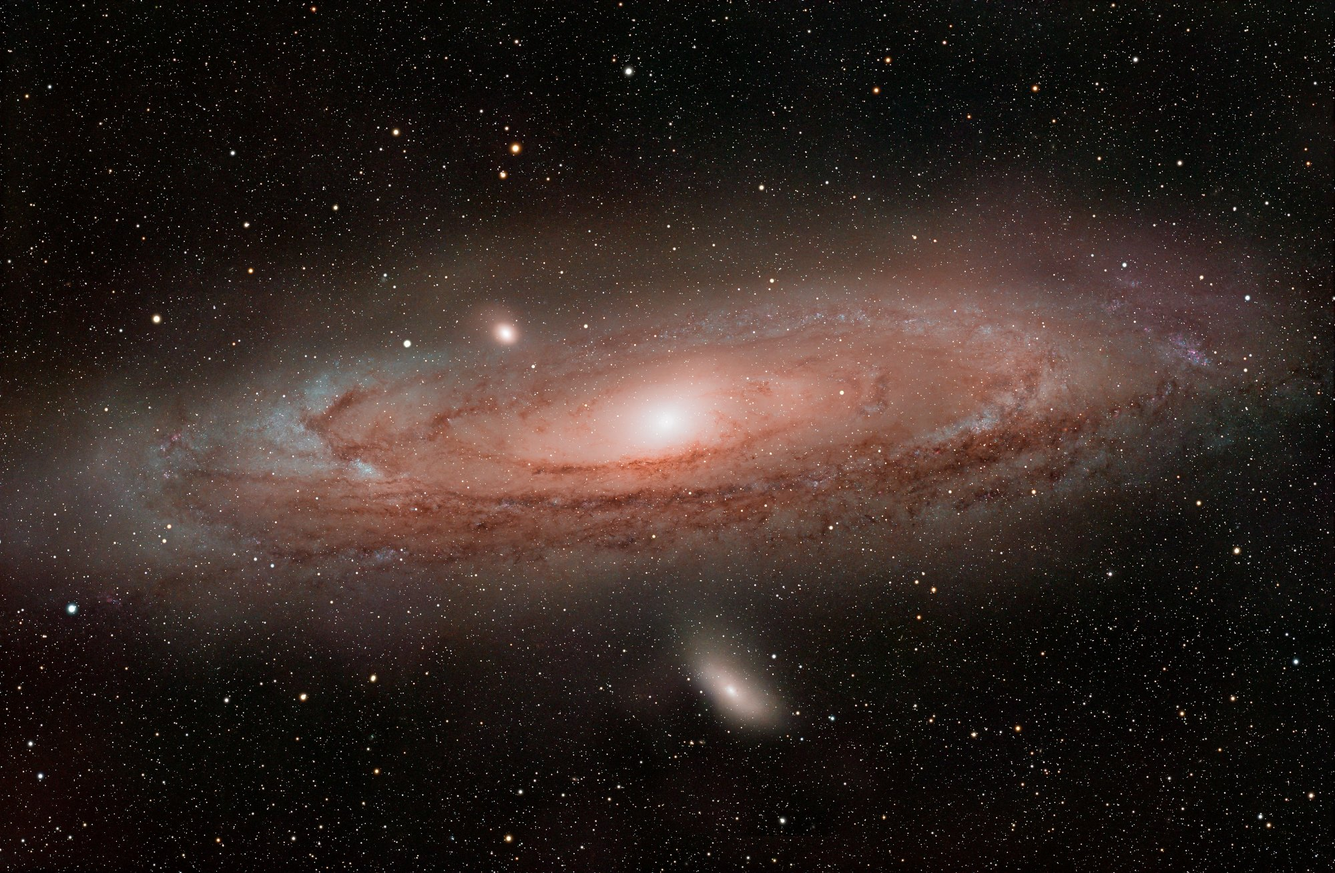
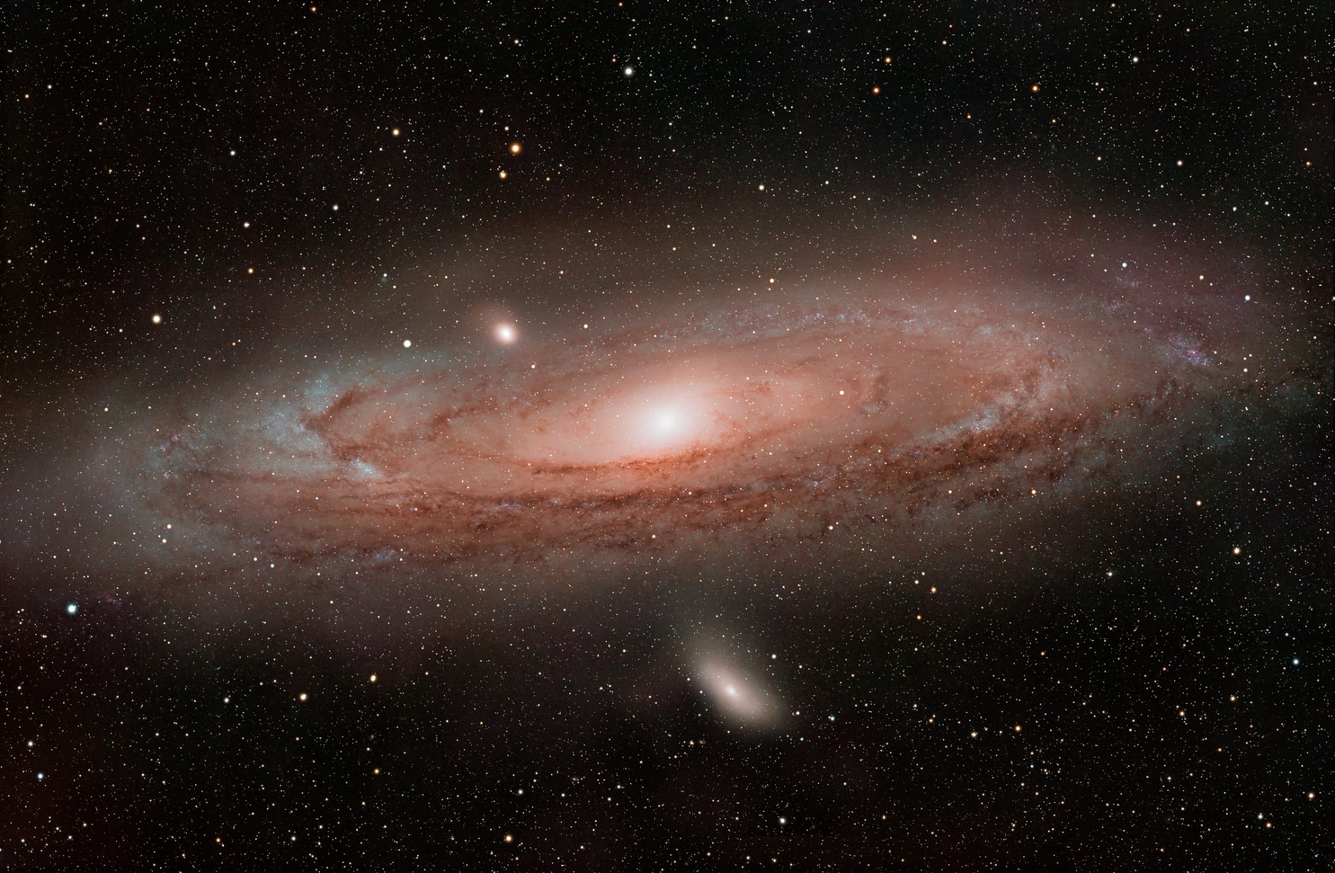
Optimizar las fotos de objetivos, y usar las buenas
Las versiones de 5 horas pesaban 6 y 8 MB, asi que la galeria iba con las
livianas y peores. Comprimidas con el criterio que ya usa la casa --2000px,
calidad 82, mozjpeg: lo mismo que quedo escrito en imagen.js despues de que una
portada pesara 1,2 MB-- bajan un 96%:

  ElephantsTrunk wide   6190 KB →  231 KB
  ElephantsTrunk zoom   8303 KB →  338 KB
  Andromeda             6128 KB →  386 KB

**Y el archivo que se llamaba "Andromeda_small" era el mejor original**: mismas
dimensiones que el otro y nueve veces mas bytes, o sea menos comprimido.
Optimizando ese queda mas liviano *y* mejor que el que ya estaba comprimido.

La galeria pasa a cuatro: Andromeda a todo el ancho, y el mismo campo del
Elephant's Trunk ancho, cerca y en banda angosta. Las dos paletas del mismo dato
dicen algo que un parrafo no dice: lo que se lleva un club es material, asi que
como termina viendose sigue siendo decision suya.

Un mega y medio en el repo para cuatro imagenes de 2000px, y Next las sirve mas
chicas todavia segun la pantalla.

diff --git a/src/app/(landing)/l/club/page.tsx b/src/app/(landing)/l/club/page.tsx
@@ -93,10 +93,18 @@ const OBJECIONES = [
 const OBJETIVOS: Objetivo[] = [
   { src: "/images/targets/m31-andromeda.jpg", objeto: "Andromeda Galaxy",
     catalogo: "M31 · with M32 and M110", alto: true },
+  // El mismo campo, ancho y cerca: el encuadre es una decisión que se toma
+  // antes de arrancar la secuencia, y eso se muestra mejor de lo que se cuenta.
   { src: "/images/targets/ic1396-elephants-trunk-wide.jpg",
-    objeto: "Elephant's Trunk Nebula", catalogo: "IC 1396A · narrowband" },
+    objeto: "Elephant's Trunk Nebula", catalogo: "IC 1396A · wide field" },
   { src: "/images/targets/ic1396-elephants-trunk-detail.jpg",
-    objeto: "Elephant's Trunk, closer", catalogo: "IC 1396A · narrowband" },
+    objeto: "The same field, closer", catalogo: "IC 1396A" },
+  // Y la tercera es el mismo objeto procesado en banda angosta. Para alguien
+  // que fotografía, ver dos paletas del mismo dato dice que lo que se lleva es
+  // material y no una foto terminada: la decisión de cómo se ve sigue siendo
+  // suya.
+  { src: "/images/targets/ic1396-elephants-trunk-narrowband.jpg",
+    objeto: "And processed as narrowband", catalogo: "IC 1396A · SHO" },
 ];
 
 const DATOS = [
@@ -186,9 +194,9 @@ export default async function ClubLanding({
       <Section>
         <Title kicker="What comes out of it">Targets shot on this rig.</Title>
         <Lead>
-          The same telescope your members would be driving, on the nights it was pointed at these.
-          Wide field and detail on the same object: the framing is a choice you make before the
-          sequence starts.
+          The same telescope your members would be driving, on the nights it was pointed at
+          these. Wide field, detail and a narrowband treatment of the same object: what comes
+          back is material, so how it ends up looking is still your decision.
         </Lead>
         <Galeria objetivos={OBJETIVOS} />
       </Section>
